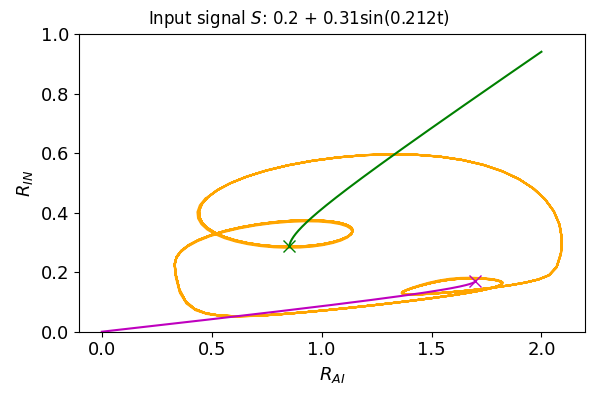
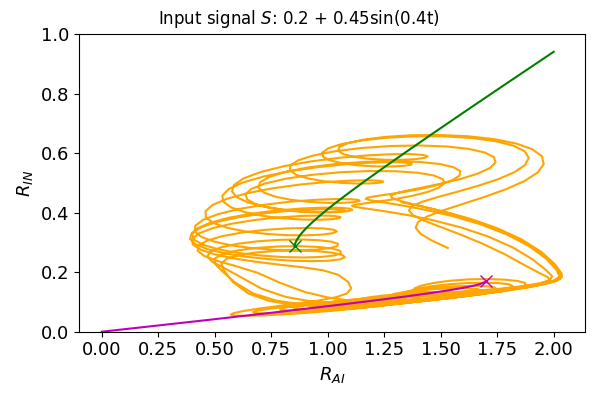
.

diff --git a/ODEsolver.py b/ODEsolver.py
@@ -281,6 +281,8 @@ a = 0.22;
 
 a = 0.31; 
 b = 0.212
+a = 0.45; 
+b = 0.4
 
 
 # a = 0.39; 
@@ -364,6 +366,6 @@ for f in figs:
     if c > 1:
         title = f"Input signal $S$: {S}"
     f.suptitle(title)
-    f.savefig(f"1f2b " + fignames[c] + ".png")
+    #f.savefig(f"1f2b " + fignames[c] + ".png")
     c+=1
-# plt.show()
+plt.show()
